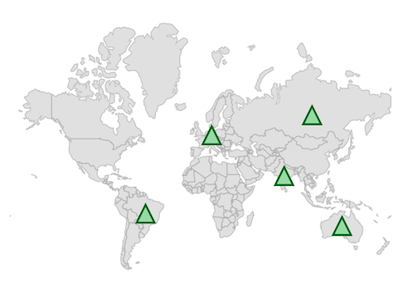
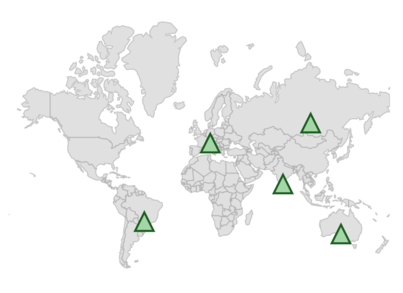
FLUT-5352-[feature][flutter]: added bounds and tooltip ug content

diff --git a/Flutter/maps/markers.md b/Flutter/maps/markers.md
@@ -154,6 +154,9 @@ N>
 
 You can customize the built-in markers appearance using the [`iconType`](https://pub.dev/documentation/syncfusion_flutter_maps/latest/maps/MapMarker/iconType.html), [`iconColor`](https://pub.dev/documentation/syncfusion_flutter_maps/latest/maps/MapMarker/iconColor.html), [`iconStrokeColor`](https://pub.dev/documentation/syncfusion_flutter_maps/latest/maps/MapMarker/iconStrokeColor.html), [`iconStrokeWidth`](https://pub.dev/documentation/syncfusion_flutter_maps/latest/maps/MapMarker/iconStrokeWidth.html), and [`size`](https://pub.dev/documentation/syncfusion_flutter_maps/latest/maps/MapMarker/size.html) properties of the [`MapMarker`](https://pub.dev/documentation/syncfusion_flutter_maps/latest/maps/MapMarker-class.html).
 
+* **Alignment** - You can change the position of the marker from the given coordinate using the `alignment` property. The default value is `Alignment.center`. The available alignment options are `topLeft`, `topRight`, `topCenter`, `centerLeft`, `center`, `centerRight`, `bottomLeft`, `bottomCenter`, `bottomRight`.
+* **Offset** - You can adjust the marker position from the given coordinate using the `offset` property. The default value of the `offset` property is `Offset.zero`.
+
 N>
 * The default value of the [`iconType`](https://pub.dev/documentation/syncfusion_flutter_maps/latest/maps/MapMarker/iconType.html) is `MapIconType.circle`.
 * The default value of the [`iconStrokeWidth`](https://pub.dev/documentation/syncfusion_flutter_maps/latest/maps/MapMarker/iconStrokeWidth.html) is `1.0`.
@@ -200,6 +203,8 @@ Widget build(BuildContext context) {
                 longitude: _data[index].longitude,
                 iconType: MapIconType.triangle,
                 size: Size(18, 18),
+                alignment: Alignment.center,
+                offset: Offset(0, 9),
                 iconColor: Colors.green[200],
                 iconStrokeColor: Colors.green[900],
                 iconStrokeWidth: 2,
@@ -719,7 +724,7 @@ class Model {
 
 ## Marker controller
 
-You can position the marker at the tapped position by converting touch pixel point into coordinates using the [`MapTileLayerController`](https://pub.dev/documentation/syncfusion_flutter_maps/latest/maps/MapTileLayerController-class.html) in the [`MapTileLayer`](https://pub.dev/documentation/syncfusion_flutter_maps/latest/maps/MapTileLayer-class.html) and the [`MapShapeLayerController`](https://pub.dev/documentation/syncfusion_flutter_maps/latest/maps/MapShapeLayerController-class.html) in the [`MapShapeLayer`](https://pub.dev/documentation/syncfusion_flutter_maps/latest/maps/MapShapeLayer-class.html).
+You can position the marker at the tapped position by converting touch pixel point into coordinates using the [`pixelToLatLng`](https://pub.dev/documentation/syncfusion_flutter_maps/latest/maps/MapTileLayerController/pixelToLatLng.html) method of [`MapTileLayerController`](https://pub.dev/documentation/syncfusion_flutter_maps/latest/maps/MapTileLayerController-class.html) in the [`MapTileLayer`](https://pub.dev/documentation/syncfusion_flutter_maps/latest/maps/MapTileLayer-class.html) and the [`MapShapeLayerController`](https://pub.dev/documentation/syncfusion_flutter_maps/latest/maps/MapShapeLayerController-class.html) in the [`MapShapeLayer`](https://pub.dev/documentation/syncfusion_flutter_maps/latest/maps/MapShapeLayer-class.html).
 
 N> It is applicable for both tile layer and shape layer.
 
@@ -877,3 +882,118 @@ typedef MapTapCallback = void Function(Offset position);
 {% endtabs %}
 
 ![Position marker at tapped position](images/markers/marker-at-tapped-position.gif)
+
+## Zoom markers to fit bounds
+
+You can visualize a specific area on the map by specifying the northeast and southwest coordinate points to the `initialLatLngBounds` property in the `MapTileLayer` and `MapShapeLayer`. It renders the map by calculating the center coordinate and zoom level depending on the `initialLatLngBounds` value.
+
+The `initialLatLngBounds` property can be set at load time alone. You can use the `latLngBounds` property of [`MapZoomPanBehavior`](https://pub.dev/documentation/syncfusion_flutter_maps/latest/maps/MapZoomPanBehavior-class.html) to dynamically update the map bounds.
+
+{% tabs %}
+{% highlight Dart %}
+
+late List<_TouristPlaceDetails> _touristPlaces;
+late MapZoomPanBehavior _zoomPanBehavior;
+bool _canFitMarkers = false;
+
+@override
+void initState() {
+  _zoomPanBehavior = MapZoomPanBehavior();
+  _touristPlaces = <_TouristPlaceDetails>[
+    const _TouristPlaceDetails(
+        MapLatLng(-25.6953, -54.4367), 'Iguazu Falls, Argentina'),
+    const _TouristPlaceDetails(MapLatLng(-50.9423, -73.4068),
+        'Torres del Paine National Park, Patagonia, Chile'),
+    const _TouristPlaceDetails(
+        MapLatLng(-15.9254, -69.3354), 'Lake Titicaca, Bolivia'),
+    const _TouristPlaceDetails(
+        MapLatLng(-13.1631, -72.5450), 'Machu Picchu, Peru'),
+    const _TouristPlaceDetails(
+        MapLatLng(-0.1862504, -78.5706247), 'The Amazon via Quito, Ecuador'),
+    const _TouristPlaceDetails(
+        MapLatLng(5.9701, -62.5362), 'Angel Falls, Venezuela'),
+    const _TouristPlaceDetails(
+        MapLatLng(-14.0875, -75.7626), 'Huacachina, Peru'),
+    const _TouristPlaceDetails(
+        MapLatLng(-22.7953, -67.8361), 'Laguna Verde, Bolivia'),
+    const _TouristPlaceDetails(
+        MapLatLng(-50.5025092, -73.1997346), 'Perito Moreno, Venezuela'),
+    const _TouristPlaceDetails(
+        MapLatLng(-22.9068, -43.1729), 'Rio de Janeiro, Brazil'),
+    const _TouristPlaceDetails(
+        MapLatLng(5.1765, -59.4808), 'Kaieteur Falls, Guyana'),
+    const _TouristPlaceDetails(
+        MapLatLng(-33.4489, -70.6693), 'Santiago, Chile'),
+    const _TouristPlaceDetails(
+        MapLatLng(4.7110, -74.0721), 'Bogota, Colombia'),
+    const _TouristPlaceDetails(
+        MapLatLng(-1.3928, -78.4269), 'Banos, Ecuador'),
+  ];
+  super.initState();
+}
+
+@override
+Widget build(BuildContext context) {
+  return Scaffold(
+    body: Column(
+      children: [
+        SfMaps(
+          layers: <MapLayer>[
+            MapTileLayer(
+              urlTemplate: 'https://tile.openstreetmap.org/{z}/{x}/{y}.png',
+              zoomPanBehavior: _zoomPanBehavior,
+              initialMarkersCount: _touristPlaces.length,
+              markerBuilder: (BuildContext context, int index) {
+                return MapMarker(
+                  latitude: _touristPlaces[index].latLng.latitude,
+                  longitude: _touristPlaces[index].latLng.longitude,
+                  child: const Icon(
+                    Icons.location_on,
+                    color: Colors.red,
+                    size: 20,
+                  ),
+                );
+              },
+            ),
+          ],
+        ),
+        SizedBox(height: 10),
+        Container(
+          width: 300,
+          padding: EdgeInsets.zero,
+          child: CheckboxListTile(
+            activeColor: Colors.blue,
+            value: _canFitMarkers,
+            title: Text('Zoom marker to fit bounds'),
+            onChanged: (bool? value) {
+              _canFitMarkers = value!;
+              setState(() {
+                if (_canFitMarkers) {
+                  // South America bounds.
+                  _zoomPanBehavior.latLngBounds = const MapLatLngBounds(
+                      MapLatLng(12.434375, -34.80546874999999),
+                      MapLatLng(-55.891699218750006, -91.654150390625));
+                } else {
+                  // World bounds.
+                  _zoomPanBehavior.latLngBounds = const MapLatLngBounds(
+                      MapLatLng(-90.0, -180.0), MapLatLng(90.0, 180.0));
+                }
+              });
+            },
+          ),
+        ),
+      ],
+    ),
+  );
+}
+
+class _TouristPlaceDetails {
+  const _TouristPlaceDetails(this.latLng, this.place);
+  final MapLatLng latLng;
+  final String place;
+}
+
+{% endhighlight %}
+{% endtabs %}
+
+![Zoom markers to fit bounds](images/markers/fit_markers.gif)

diff --git a/Flutter/maps/tooltip.md b/Flutter/maps/tooltip.md
@@ -404,6 +404,9 @@ You can customize the below appearances of the tooltip.
 * **Background color** - Change the background color of the tooltip in the maps using the [`MapTooltipSettings.color`](https://pub.dev/documentation/syncfusion_flutter_maps/latest/maps/MapTooltipSettings/color.html) property.
 * **Stroke color** - Change the stroke color of the tooltip in the maps using the [`MapTooltipSettings.strokeColor`](https://pub.dev/documentation/syncfusion_flutter_maps/latest/maps/MapTooltipSettings/strokeColor.html) property.
 * **Stroke width** - Change the stroke width of the tooltip in the maps using the [`MapTooltipSettings.strokeWidth`](https://pub.dev/documentation/syncfusion_flutter_maps/latest/maps/MapTooltipSettings/strokeWidth.html) property.
+* **Visibility** - Change the duration of the tooltip visibility using the `hideDelay` property. The default value of the `hideDelay` property is 3. By default, tooltip will hide automatically after 3 seconds of inactivity for mobile platforms. Also, you can increase the tooltip duration or show tooltip always by setting `double.infinity` to the `hideDelay` property.
+
+N> For mobile platforms, the `hideDelay` option is supported. When you hover over the shape, bubble, or marker on the web or desktop, a tooltip will appear. When you remove hover from the shape, it will disappear.
 
 {% tabs %}
 {% highlight Dart %}
@@ -455,6 +458,7 @@ Widget build(BuildContext context) {
                       fontSize: 14,
                       fontStyle: FontStyle.italic,
                       fontFamily: 'Times',
+                      hideDelay: 10,
                   ),
                 ),
               );
